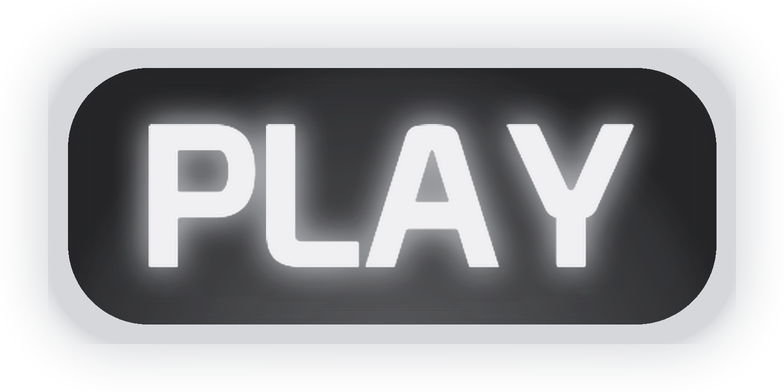
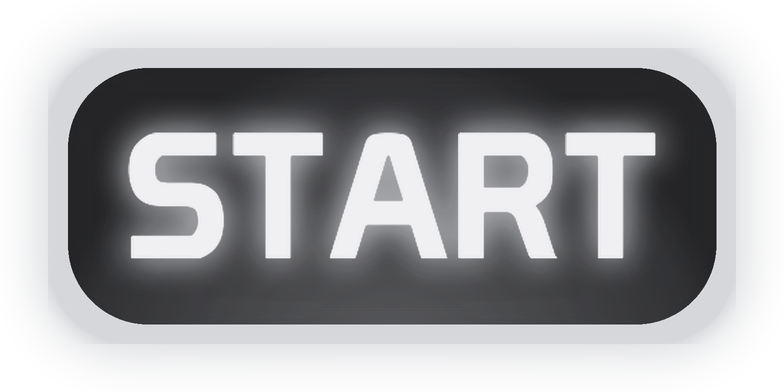
Rename the PLAY button to START

Changed region(s): [[0.1224, 0.2755, 0.8571, 0.7347]]

diff --git a/tools/art/neon_ui.py b/tools/art/neon_ui.py
@@ -320,7 +320,7 @@ def build_play():
     t.alpha_composite(inner, (mg * N.U, mg * N.U))
     halo = glow(t, 6.5, NEUTRAL, 1.0)
     t = Image.alpha_composite(halo, t)
-    m = font.mask('PLAY', 50)
+    m = font.mask('START', 44)
     center_text(t, m, t.width / 2, t.height / 2, NEUTRAL, 4.0)
     N.finish(t, w, h, 'gui/bGo.png')
     for name, w, h, text in [('bQuestionEN', 311, 80, 'Are you sure you\nwant to leave?'),
